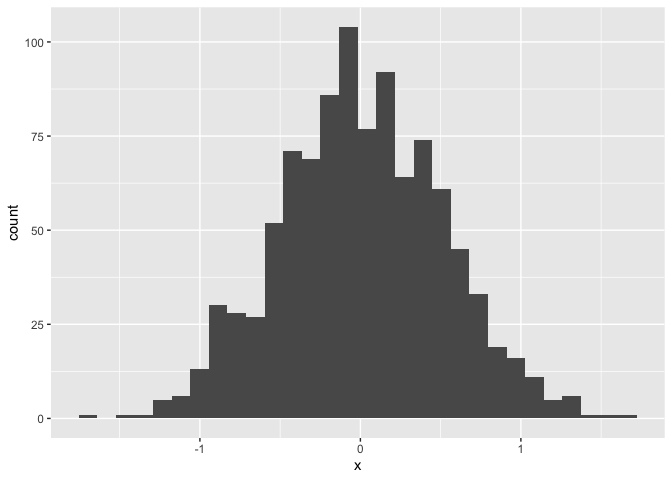
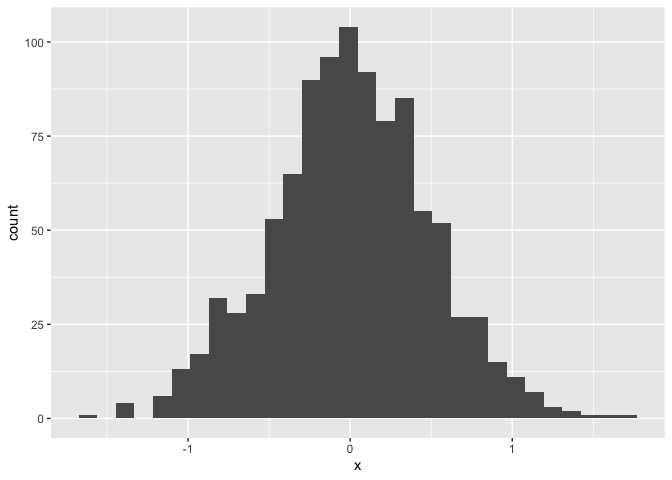
message was mispelled. mispelling corrected now.

diff --git a/template.md b/template.md
@@ -31,20 +31,6 @@ I’m an R Markdown document!
 
 ``` r
 library(tidyverse)
-```
-
-    ## ── Attaching core tidyverse packages ──────────────────────── tidyverse 2.0.0 ──
-    ## ✔ dplyr     1.2.1     ✔ readr     2.2.0
-    ## ✔ forcats   1.0.1     ✔ stringr   1.6.0
-    ## ✔ ggplot2   4.0.3     ✔ tibble    3.3.1
-    ## ✔ lubridate 1.9.5     ✔ tidyr     1.3.2
-    ## ✔ purrr     1.2.2     
-    ## ── Conflicts ────────────────────────────────────────── tidyverse_conflicts() ──
-    ## ✖ dplyr::filter() masks stats::filter()
-    ## ✖ dplyr::lag()    masks stats::lag()
-    ## ℹ Use the conflicted package (<http://conflicted.r-lib.org/>) to force all conflicts to become errors
-
-``` r
 library(ggplot2)
 ```
 
@@ -61,7 +47,7 @@ length(samp)
 
 # Section 2
 
-I can take the mean of the sample, too! The mean is 0.1072721.
+I can take the mean of the sample, too! The mean is -0.0296889.
 
 # Section 3: a tibble
 
@@ -76,12 +62,12 @@ head(plot_df)
     ## # A tibble: 6 × 2
     ##         x      y
     ##     <dbl>  <dbl>
-    ## 1  0.730   2.20 
-    ## 2 -0.124   0.134
-    ## 3 -0.184  -1.00 
-    ## 4 -0.247   1.26 
-    ## 5 -0.0699  3.74 
-    ## 6 -0.720   0.557
+    ## 1  0.348   1.55 
+    ## 2 -0.267   2.06 
+    ## 3  0.240   2.77 
+    ## 4  0.797   1.20 
+    ## 5 -0.0746  0.616
+    ## 6 -1.09   -0.945
 
 # Section 4: Plot
 
